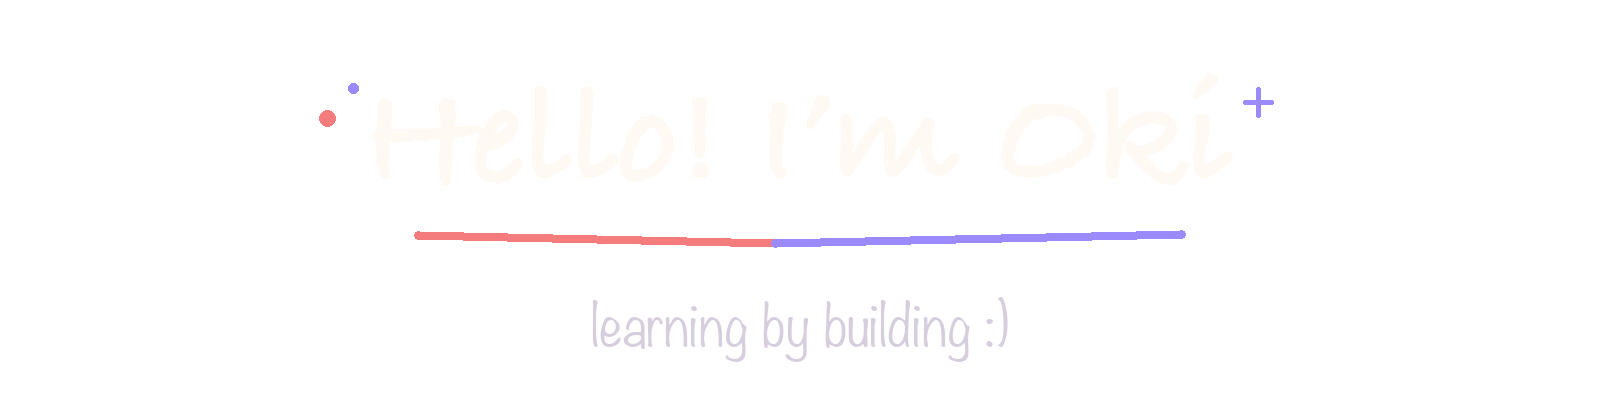
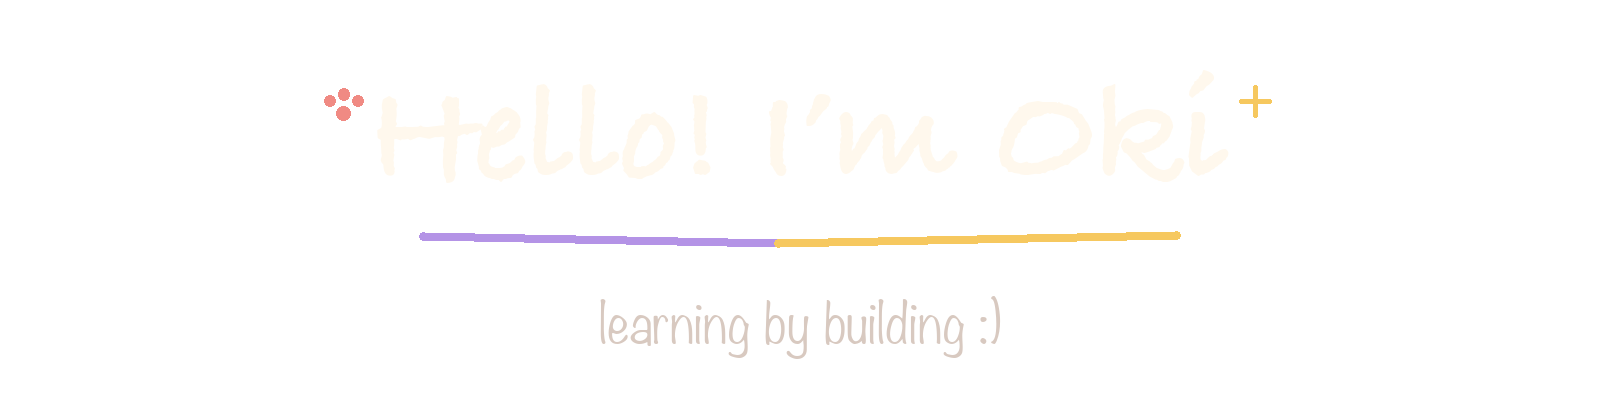
Replace the profile hero with Oki's cat mascots

diff --git a/README.md b/README.md
@@ -1,25 +1,27 @@
 <table>
   <tr>
-    <td width="66%" valign="middle">
+    <td width="64%" valign="middle">
       <p align="center">
         <picture>
           <source media="(prefers-color-scheme: dark)" srcset="./assets/header-dark.png">
           <source media="(prefers-color-scheme: light)" srcset="./assets/header-light.png">
-          <img src="./assets/header-light.png" width="78%" alt="Hello! I’m Oki — learning by building">
+          <img src="./assets/header-light.png" width="100%" alt="Hello! I’m Oki — learning by building">
         </picture>
-        <img src="./assets/wave.gif" width="32" alt="A small waving hand">
       </p>
       <p align="center">
         <a href="https://github.com/DenverCoder1/readme-typing-svg">
-          <img src="https://readme-typing-svg.demolab.com?font=Inter&size=18&duration=3200&pause=900&color=F47C7C&center=true&vCenter=true&repeat=true&width=620&height=88&lines=Curious+about+how+things+work;Learning+by+building%2C+one+project+at+a+time;Making+small+tools+for+real+problems;Early+in+the+journey%2C+serious+about+the+work" width="100%" alt="Curious about how things work. Learning by building, one project at a time. Making small tools for real problems. Early in the journey, serious about the work.">
+          <img src="https://readme-typing-svg.demolab.com?font=Inter&size=18&duration=3200&pause=900&color=B493E6&center=true&vCenter=true&repeat=true&width=620&height=88&lines=Curious+about+how+things+work;Learning+by+building%2C+one+project+at+a+time;Making+small+tools+for+real+problems;Early+in+the+journey%2C+serious+about+the+work" width="100%" alt="Curious about how things work. Learning by building, one project at a time. Making small tools for real problems. Early in the journey, serious about the work.">
         </a>
       </p>
       <p align="center">
         Statistics student exploring AI, data, and human-centered products.
       </p>
+      <p align="center">
+        <img src="./assets/hi-cat.gif" width="150" alt="A cream-and-caramel cat waving hello">
+      </p>
     </td>
-    <td width="34%" valign="middle" align="center">
-      <img src="./assets/oki-working.gif" width="100%" alt="Oki working at a laptop, blinking and typing">
+    <td width="36%" valign="middle" align="center">
+      <img src="./assets/coding-cat.gif" width="100%" alt="The same cat wearing glasses and typing at a laptop">
     </td>
   </tr>
 </table>
@@ -43,14 +45,13 @@ An AI-powered clarity tool for difficult conversations — designed to help peop
 
 [Explore the project](https://github.com/okichen168/grow-into-yourself) · [Try the live app](https://clear-translate.creamy-scarf-2160.chatgpt.site)
 
-## Things I care about
+## Currently exploring
 
-- Making something useful before making it impressive
-- Treating feedback as part of the build, not the final step
-- Keeping the human context visible when working with data and AI
-- Leaving room for curiosity, care, and a little playfulness
+- Small AI products that solve real, specific problems
+- Better ways to turn messy language into useful signals
+- Thoughtful interfaces, feedback loops, and privacy-aware design
 
-## Learning & using
+## Tools I’m working with
 
 `Python` · `TypeScript` · `Next.js` · `SQL` · `Git` · `data analysis` · `rapid prototyping`
 
